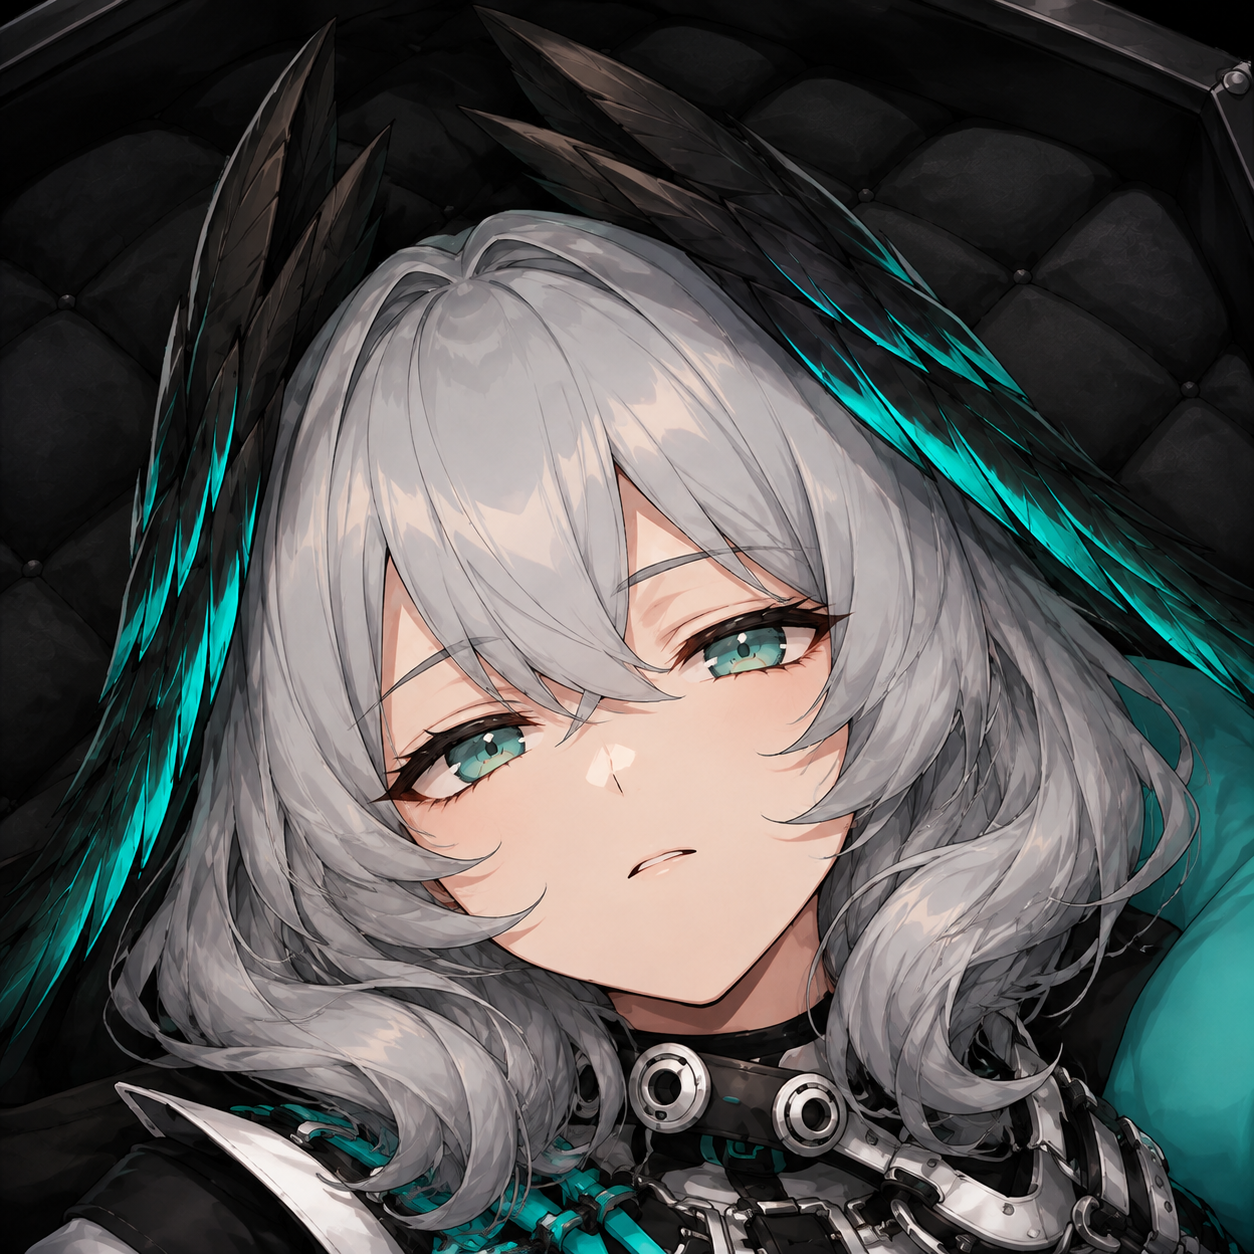
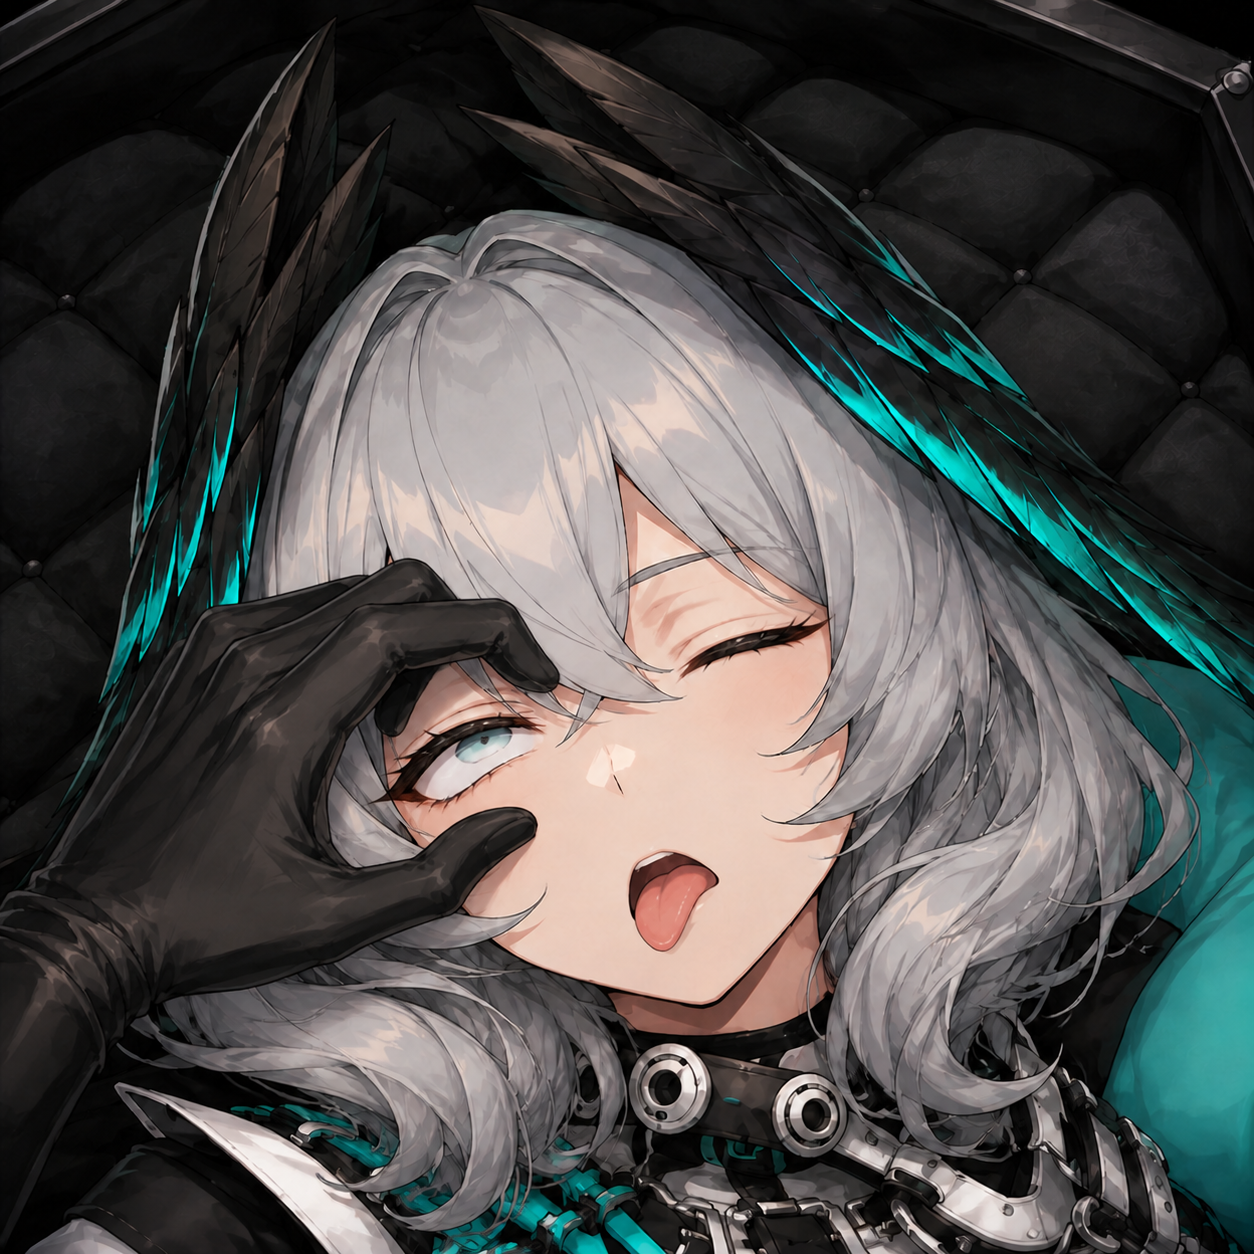
美术资源更新

diff --git a/src/content/characters/characters.test.ts b/src/content/characters/characters.test.ts
@@ -212,6 +212,7 @@ describe("data-driven character registry", () => {
         { id: "right", name: "右侧", image: "/assets/characters/nian-trophy-gallery-right-subject.png" }
       ],
       closeups: [
+        expect.objectContaining({ id: "face", name: "半睁的脸", x: 50, y: 17, image: "/assets/characters/nian-trophy-detail-face.png" }),
         expect.objectContaining({ id: "hand", name: "松开的手", x: 31, y: 44, image: "/assets/characters/nian-trophy-detail-hand.png" }),
         expect.objectContaining({ id: "tail-root", name: "龙尾根部", x: 65, y: 47, image: "/assets/characters/nian-trophy-detail-tail-root.png" }),
         expect.objectContaining({ id: "feet-overhead", name: "足部·俯视", x: 43, y: 86, image: "/assets/characters/nian-trophy-detail-feet-overhead.png" }),
@@ -414,7 +415,7 @@ describe("data-driven character registry", () => {
   it("supports any number of bounded, uniquely identified trophy closeups and per-point variants", () => {
     const gallery = nianData.trophyGallery;
     const overhead = gallery.closeups.find((point) => point.id === "feet-overhead");
-    expect(gallery.closeups).toHaveLength(4);
+    expect(gallery.closeups).toHaveLength(5);
     expect(overhead?.variants).toEqual([{
       image: "/assets/characters/nian-trophy-detail-feet-overhead-p1.png",
       description: expect.stringContaining("白色高跟鞋已被移开")
